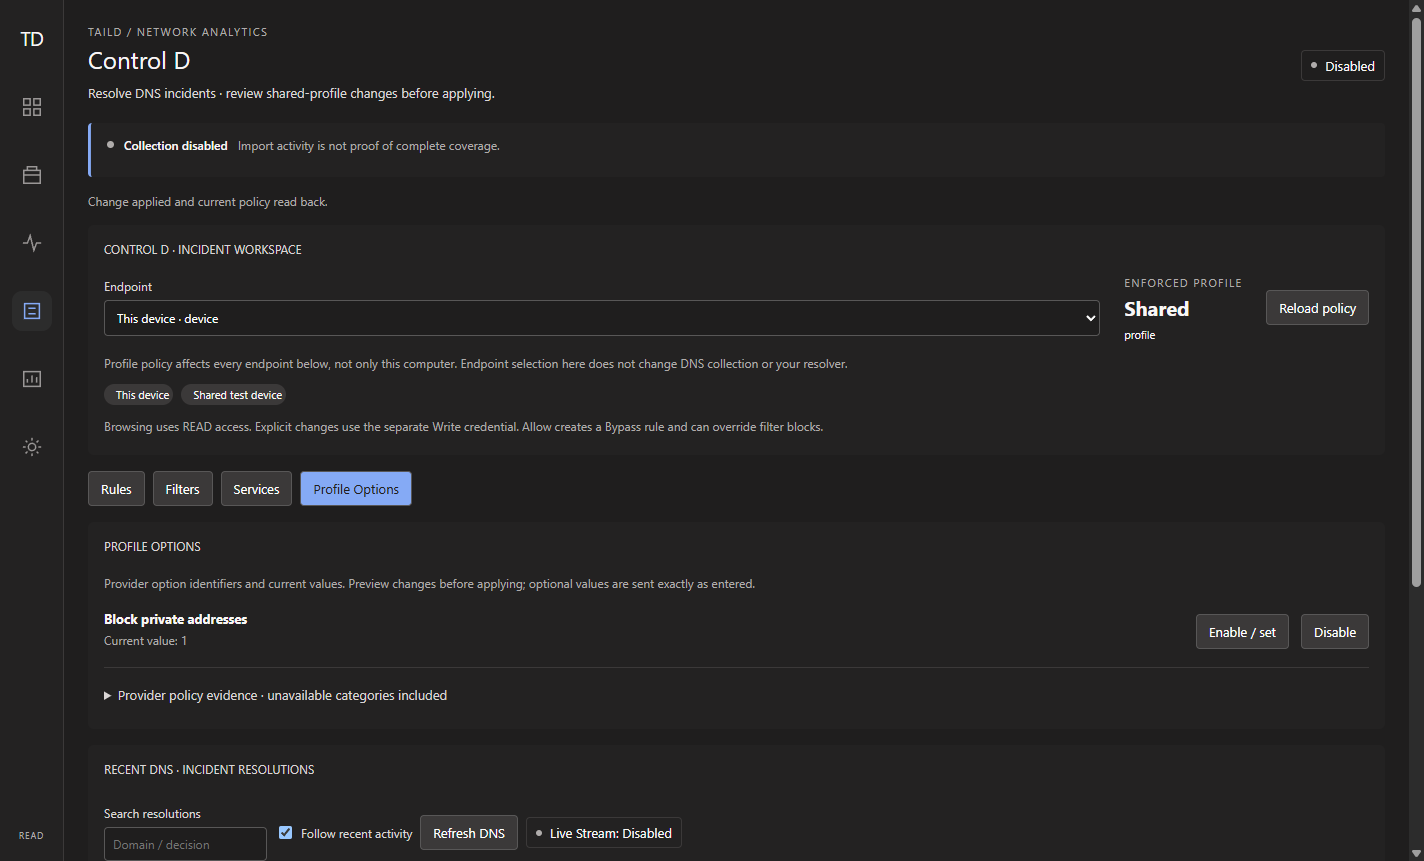
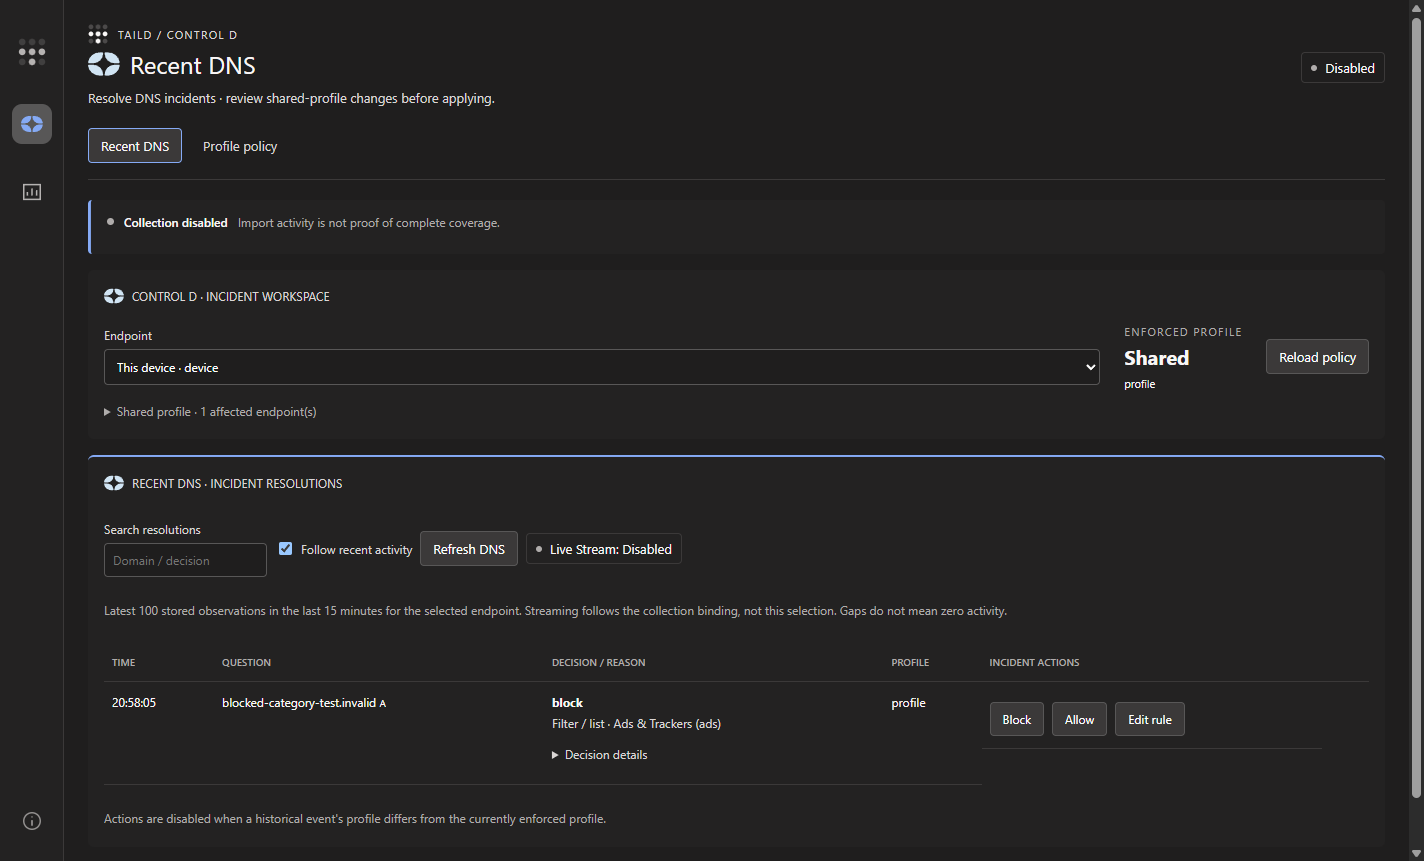
Document verified +11 deployment and refresh navigation screenshots

diff --git a/docs/taild/IMPLEMENTATION-PLAN.md b/docs/taild/IMPLEMENTATION-PLAN.md
@@ -2,10 +2,34 @@
 
 October 15 R22–R24 delivery: Stage 10 remains the single **ACTIVE** stage.
 The owner explicitly authorized release and local deployment after reconciliation.
-R22–R24 source/native acceptance is COMPLETE; this delivery remains ACTIVE until
-the complete signing workflow, independent public artifact verification, in-place
-installation and installed-owner category/About acceptance pass. Preserve the
-previous verified release/recovery payload and all existing identity/settings.
+R22–R24 source/native acceptance and this bounded delivery are **COMPLETE**.
+Normal release **1.105.0+11**, source `d12a13f3fc006ba70ecaa3088dcaaca2377811e8`,
+passed workflow `38787061471`, including isolated installer lifecycle and failed-
+migration recovery. Independent public download verified pinned Ed25519 envelope,
+package and core signatures, checksums, exact tag/source/core/upstream identity,
+443 payload members, amd64 executables and the new navigation/About assets.
[1 lines of base64/hex data omitted]
+The original broker request `40f7f74705b24540b47d16d5fa4e525c` completed elevated
+with installer exit 0. Installed payload, node/addresses/signer, DNS/context,
+updater choice, preserved official GUI/wintun, public DNS and MagicDNS pass the
+physical-profile before/after comparison. Source settings and both credentials
+remain; the actual collector is collecting with live DNS connected. The read-only
+history quick_check and WAL assertions passed before the observer encountered a
+stale pre-restart PID; a separate fresh health check confirms the current process.
+Installed hook-free Release UIA controls verify category exclusivity, all five
+preferences, resolver read, live recent DNS, policy tabs, ready analytics metrics
+and bottom-left About/version. The observer needed ExpandCollapse semantics for
+ARIA-expanded buttons and interactive-control readiness instead of a UIA-omitted
+panel wrapper; the invalid wrapper wait was explicitly cancelled, not counted as
+a pass. No product workaround or live network/policy write was introduced.
+Evidence/recovery payload: D:/Tools/taild-stage10-validation-20261013/release-11.
+The previous verified release/recovery payload remains available.
+Task staging/bytecode were removed with reviewed exact-file cleanup. The helper
+attempted `C:/Users/darka/AppData/Local/Temp/is-B5ST4RS3SB.tmp` and its `{app}`
+child, reporting both locked; they contain no files. ACL inspection confirms
+owner-user RX versus Administrators/SYSTEM full control. Preserve these empty
+installer-owned directories rather than changing ACLs or requesting another
+administrator action for 0 B; the partial ticket was explicitly revoked.
 No additional feature, device deployment or production policy mutation. B12's
 broader lifecycle/updater reconciliation is not closed by this bounded delivery.
 

diff --git a/README.md b/README.md
@@ -38,8 +38,10 @@ confirmation, using a separate Write credential; collection remains READ-only.
 The sidebar keeps Tailscale, Control D and Analytics category icons visible while
 showing only the selected category's pages. Control D opens on recent DNS activity;
 profile policy is a separate tab. The tray remains available for account sign-in
-and Taildrop. These navigation/control additions are on development main; see
-the release-versus-development distinction below.
+and Taildrop. These navigation/control additions are available starting with
+**1.105.0+11**.
+
+![TailD Tailscale category: existing device connection, exit-node controls and network devices](docs/taild/screenshots/connection.png)
 
 ### Resolve DNS incidents without opening the browser
 
@@ -48,7 +50,7 @@ resolutions with their provider-supplied filter/list, service or rule trigger,
 and descriptive category details. Create a Block or explicit Bypass exception,
 or edit existing rules, filters, services and profile options.
 
-![TailD Control D incident workspace with shared-profile scope and management tabs](docs/taild/screenshots/management.png)
+![TailD Control D Recent DNS workspace with decisions and blocking reasons; Profile policy is a separate tab](docs/taild/screenshots/management.png)
 
 Writes are never retried automatically. Changed policy/bindings invalidate the
 preview; successful actions are read back. READ and Write credentials stay in
